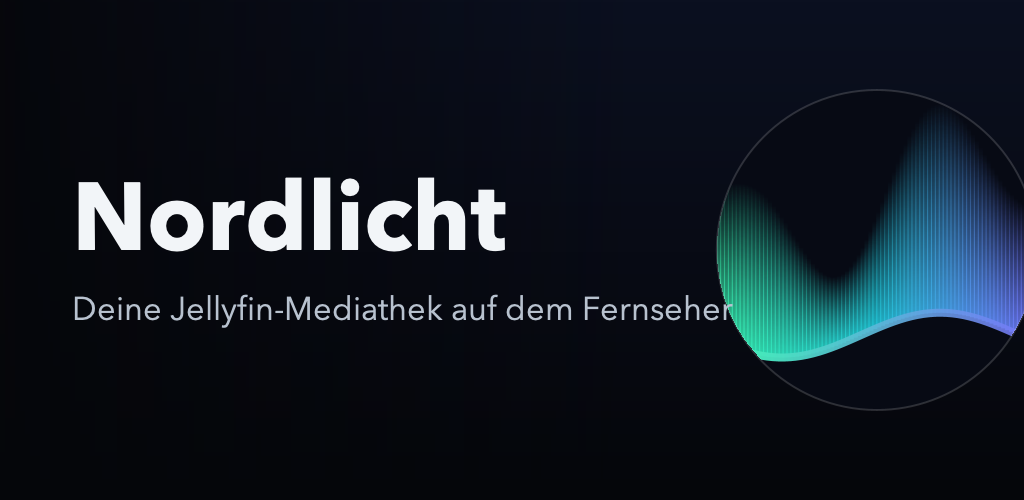
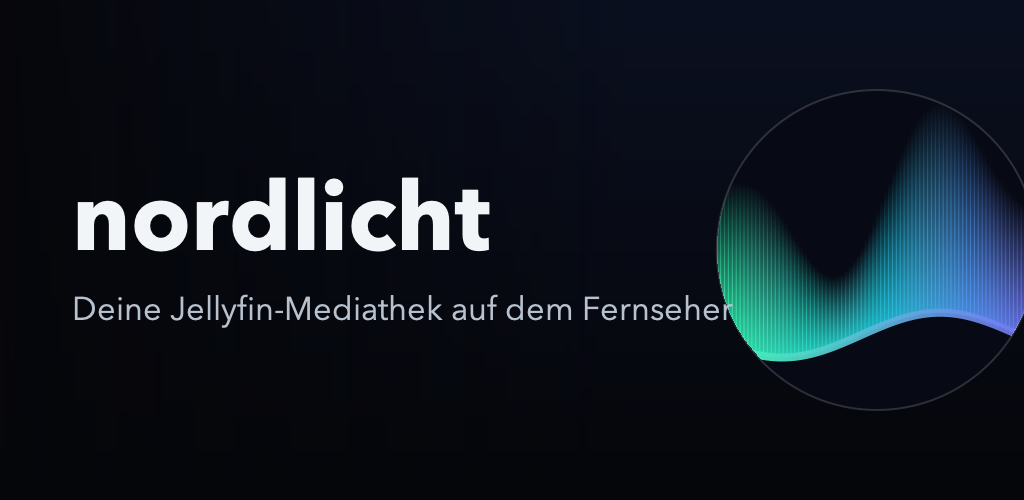
Name klein geschrieben: nordlicht

Changed region(s): [[0.0625, 0.33, 0.5, 0.51]]

diff --git a/store/NordlichtArt.java b/store/NordlichtArt.java
@@ -127,9 +127,9 @@ public class NordlichtArt {
         if (withText) {
             double tx = x0 + s * 1.12, avail = w * 0.92 - tx, size = h * 0.20;
             Font f = new Font("Avenir Next", Font.BOLD, (int) size);
-            double tw = g.getFontMetrics(f).stringWidth("Nordlicht");
+            double tw = g.getFontMetrics(f).stringWidth("nordlicht");
             if (tw > avail) size *= avail / tw;
-            wordmark(g, "Nordlicht", tx, h / 2 + size * 0.36, size);
+            wordmark(g, "nordlicht", tx, h / 2 + size * 0.36, size);
         }
         g.dispose();
         return im;
@@ -142,7 +142,7 @@ public class NordlichtArt {
         aurora(g, w * 0.70, h * 0.18, h * 0.64, h * 0.64);
         g.setPaint(new GradientPaint(0, 0, withAlpha(BG_BOTTOM, 235), (float) (w * 0.62), 0, withAlpha(BG_BOTTOM, 0)));
         g.fillRect(0, 0, w, h);
-        wordmark(g, "Nordlicht", w * 0.07, h * 0.50, h * 0.19);
+        wordmark(g, "nordlicht", w * 0.07, h * 0.50, h * 0.19);
         g.setFont(g.getFont().deriveFont(Font.PLAIN, (float) (h * 0.065)));
         g.setPaint(new Color(0xB8C2CF));
         g.drawString("Deine Jellyfin-Mediathek auf dem Fernseher", (float) (w * 0.07), (float) (h * 0.64));

diff --git a/store/listing.md b/store/listing.md
@@ -9,7 +9,7 @@ Regeln, an die sich der Text hält:
 
 ## Deutsch (de-DE)
 
-**Titel (30):** Nordlicht – TV Media Player
+**Titel (30):** nordlicht – TV Media Player
 
 **Kurzbeschreibung (80):** Deine Jellyfin-Mediathek auf dem Fernseher: schnell, übersichtlich, kinoreif.
 
@@ -38,7 +38,7 @@ Nordlicht ist ein unabhängiges Projekt und steht in keiner Verbindung zum Jelly
 
 ## English (en-GB)
 
-**Title (30):** Nordlicht – TV Media Player
+**Title (30):** nordlicht – TV Media Player
 
 **Short description (80):** Your Jellyfin library on the big screen: fast, tidy and cinematic.
 
